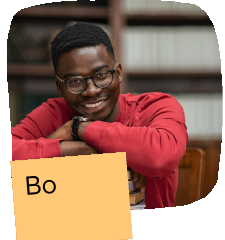
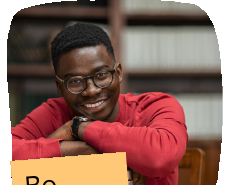
Restaure fidèlement les éléments du design bourses

diff --git a/bourses/index.html b/bourses/index.html
@@ -14,18 +14,18 @@
   <style>
     :root{--ink:#151515;--orange:#ffc873;--pink:#ffadca;--green:#056b5b;--muted:#555}
     *{box-sizing:border-box}html{scroll-behavior:smooth}body{margin:0;background:#fff;color:var(--ink);font-family:Inter,Arial,sans-serif;font-size:15px;line-height:1.42}main{width:min(100%,560px);margin:auto;overflow:hidden}.page{padding:38px 28px 0}h1{font:600 clamp(34px,9vw,48px)/.98 Caveat,cursive;text-align:center;margin:8px 0 30px}h2{font-size:18px;margin:30px 0 16px}h3{font-size:15px;margin:22px 0 12px}p{margin:0 0 16px}.lead{font-weight:700;font-size:16px}.just{text-align:justify}.collage{width:calc(100% + 20px);margin:18px -10px 5px}.collage img{width:100%;display:block}.note{display:inline-block;background:var(--orange);padding:12px 18px;transform:rotate(3deg);font-family:Caveat,cursive;font-size:18px}.dots{display:flex;gap:22px;justify-content:flex-end;margin:35px 18px 95px}.dots i{width:13px;height:13px;border-radius:50%;background:var(--orange)}.circle-title{position:relative;display:inline-block}.circle-title:after{content:"";position:absolute;inset:-12px -22px -9px -17px;border:3px solid var(--pink);border-radius:50%;transform:rotate(7deg);pointer-events:none}.star{float:right;color:var(--green);font-size:34px;line-height:1}ul,ol{padding-left:25px;margin:12px 0 25px}li{margin:4px 0}.documents li{margin:10px 0}.strong{font-weight:800}.reader{width:64%;margin:28px 0 0}.reader img,.booking-visual img,.world img{width:100%;display:block}.reader-row{display:flex;align-items:flex-start;justify-content:space-between}.mini-dots{display:flex;gap:20px;padding-top:45px}.mini-dots i{width:12px;height:12px;background:var(--orange);border-radius:50%}.booking-visual{width:56%;margin:12px 0 0 auto}.booking-title{margin-top:-12px}.heart{color:var(--orange)}.price{font-style:italic;font-weight:800}.book-link{display:inline-block;color:#111;text-decoration:underline;font-weight:500;padding:3px 0 8px}.book-link:hover,.book-link:focus{color:#0866d9}.address{font-weight:800}.warning{font-weight:800}.agency{margin-top:35px}.world{width:62%;margin:-5px 0 0 auto}.footer-space{height:12px}.back{position:fixed;left:14px;top:14px;width:42px;height:42px;border-radius:50%;background:#fff;color:#111;display:grid;place-items:center;text-decoration:none;box-shadow:0 5px 18px #0002;font-size:20px;z-index:5}
+    .collage{position:relative;margin-bottom:48px}.hero-note{position:absolute;right:24px;bottom:-38px;width:132px;min-height:76px;background:var(--orange);padding:12px 9px;transform:rotate(3deg);font:600 17px/1.05 Caveat,cursive;text-align:center}.booking-visual{position:relative;margin-bottom:54px}.booking-note{position:absolute;left:-12px;bottom:-42px;width:130px;min-height:82px;background:var(--orange);padding:15px 12px;transform:rotate(-2deg);font:600 27px/1.05 Caveat,cursive;text-align:center}.booking-title{margin-top:0}.footer-space{height:0}
     @media(min-width:561px){body{background:#f4f4f4}main{background:#fff;box-shadow:0 0 30px #0001}.page{padding-left:48px;padding-right:48px}}
     @media(max-width:380px){body{font-size:14px}.page{padding-left:20px;padding-right:20px}h1{font-size:36px}.dots{margin-bottom:70px}.world{width:68%}}
   </style>
 </head>
 <body>
-  <a class="back" href="../" aria-label="Retour à l'accueil">‹</a>
   <main><article class="page">
     <h1>Apprenez le portugais au Portugal grâce<br>à une bourse d'études !</h1>
     <p class="lead">Vous souhaitez apprendre le portugais, améliorer vos compétences linguistiques et découvrir de nouvelles opportunités académiques et professionnelles&nbsp;?</p>
     <p class="just">Believe Travel vous accompagne dans la préparation de votre candidature à un programme de bourse de langue et culture portugaises au Portugal.</p>
 
-    <div class="collage"><img src="../assets/bourses/hero-collage.png" alt="Étudiants préparant leur projet d'études"></div>
+    <div class="collage"><img src="../assets/bourses/hero-collage.png" alt="Étudiants préparant leur projet d'études"><div class="hero-note">Portugal 2027–2028<br>Mon voyage de rêve</div></div>
 
     <h2>Présentation du programme</h2>
     <p class="just">Ce programme permet aux candidats sélectionnés de suivre une formation en langue et culture portugaises dans un établissement d'enseignement reconnu au Portugal.</p>
@@ -57,7 +57,7 @@
     <p>Les documents rédigés dans d'autres langues que le portugais ou l'anglais peuvent nécessiter une traduction certifiée pour la candidature officielle.</p>
 
     <div class="reader-row"><div class="reader"><img src="../assets/bourses/reader.png" alt="Étudiant lisant un document"></div><div class="mini-dots" aria-hidden="true"><i></i><i></i><i></i><i></i></div></div>
-    <div class="booking-visual"><img src="../assets/bourses/student-bourse.png" alt="Étudiant souriant - Bourse 2027"></div>
+    <div class="booking-visual"><img src="../assets/bourses/student-bourse.png" alt="Étudiant souriant - Bourse 2027"><div class="booking-note">Bourse<br>2027</div></div>
 
     <h2 class="booking-title">Comment prendre rendez-vous <span class="heart">♥</span></h2>
     <p class="strong">Une fois vos documents préparés, vous pouvez réserver une consultation avec notre équipe.</p>
